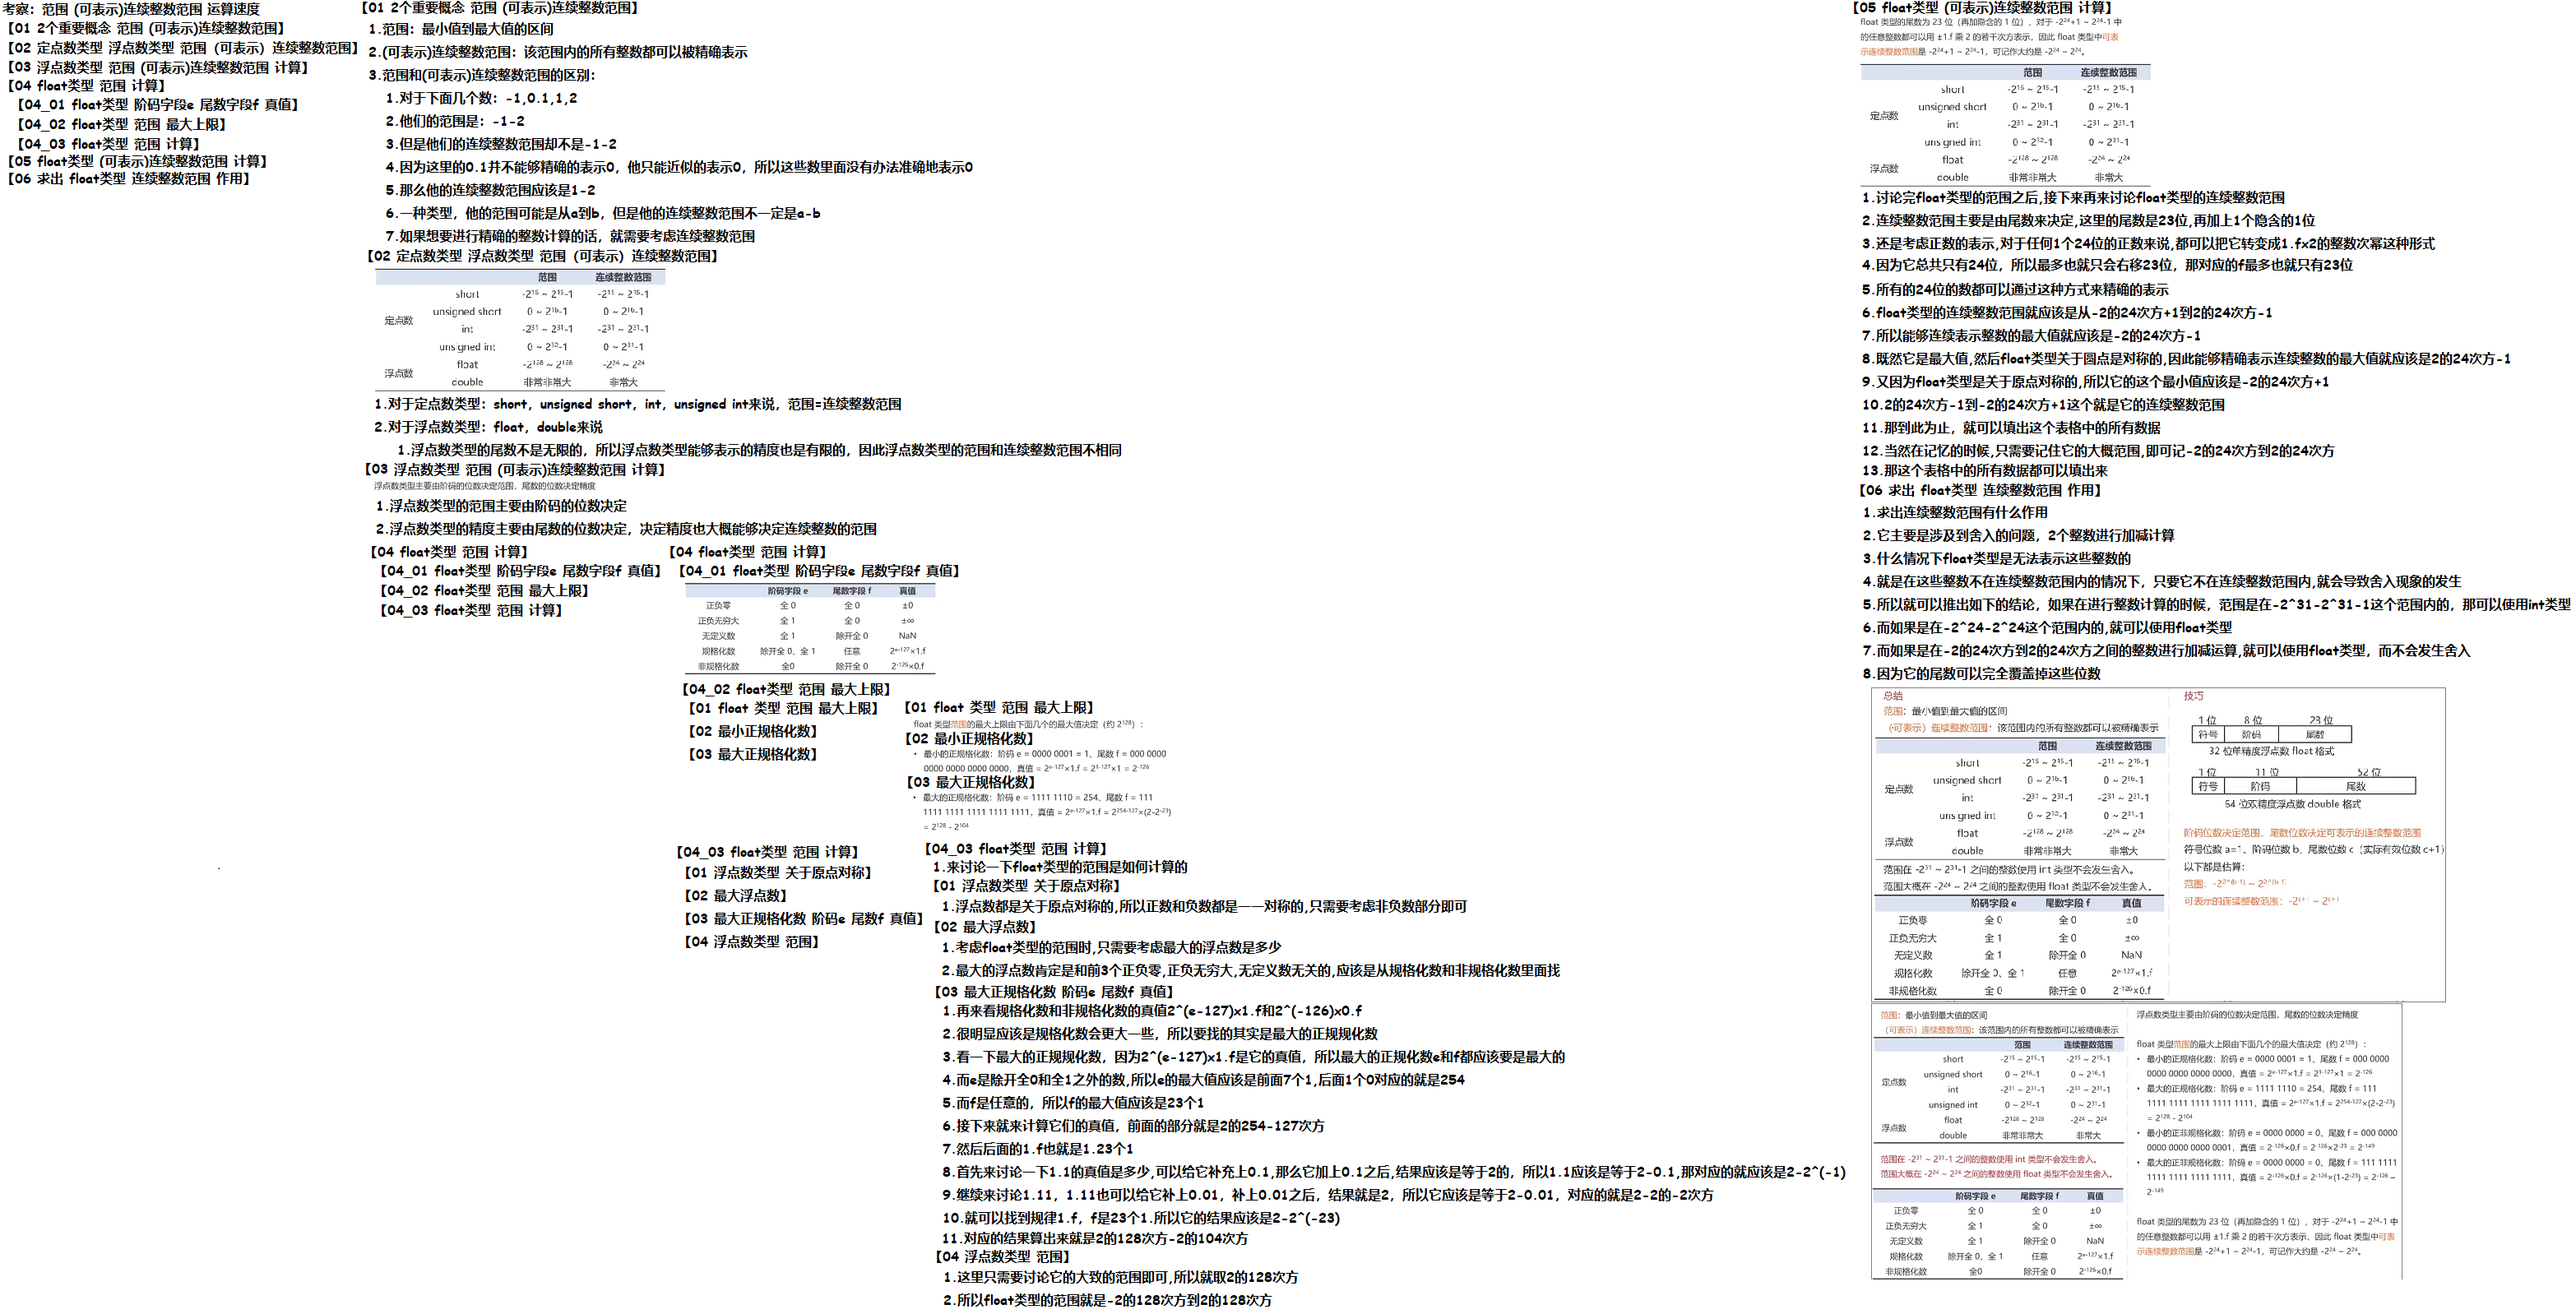
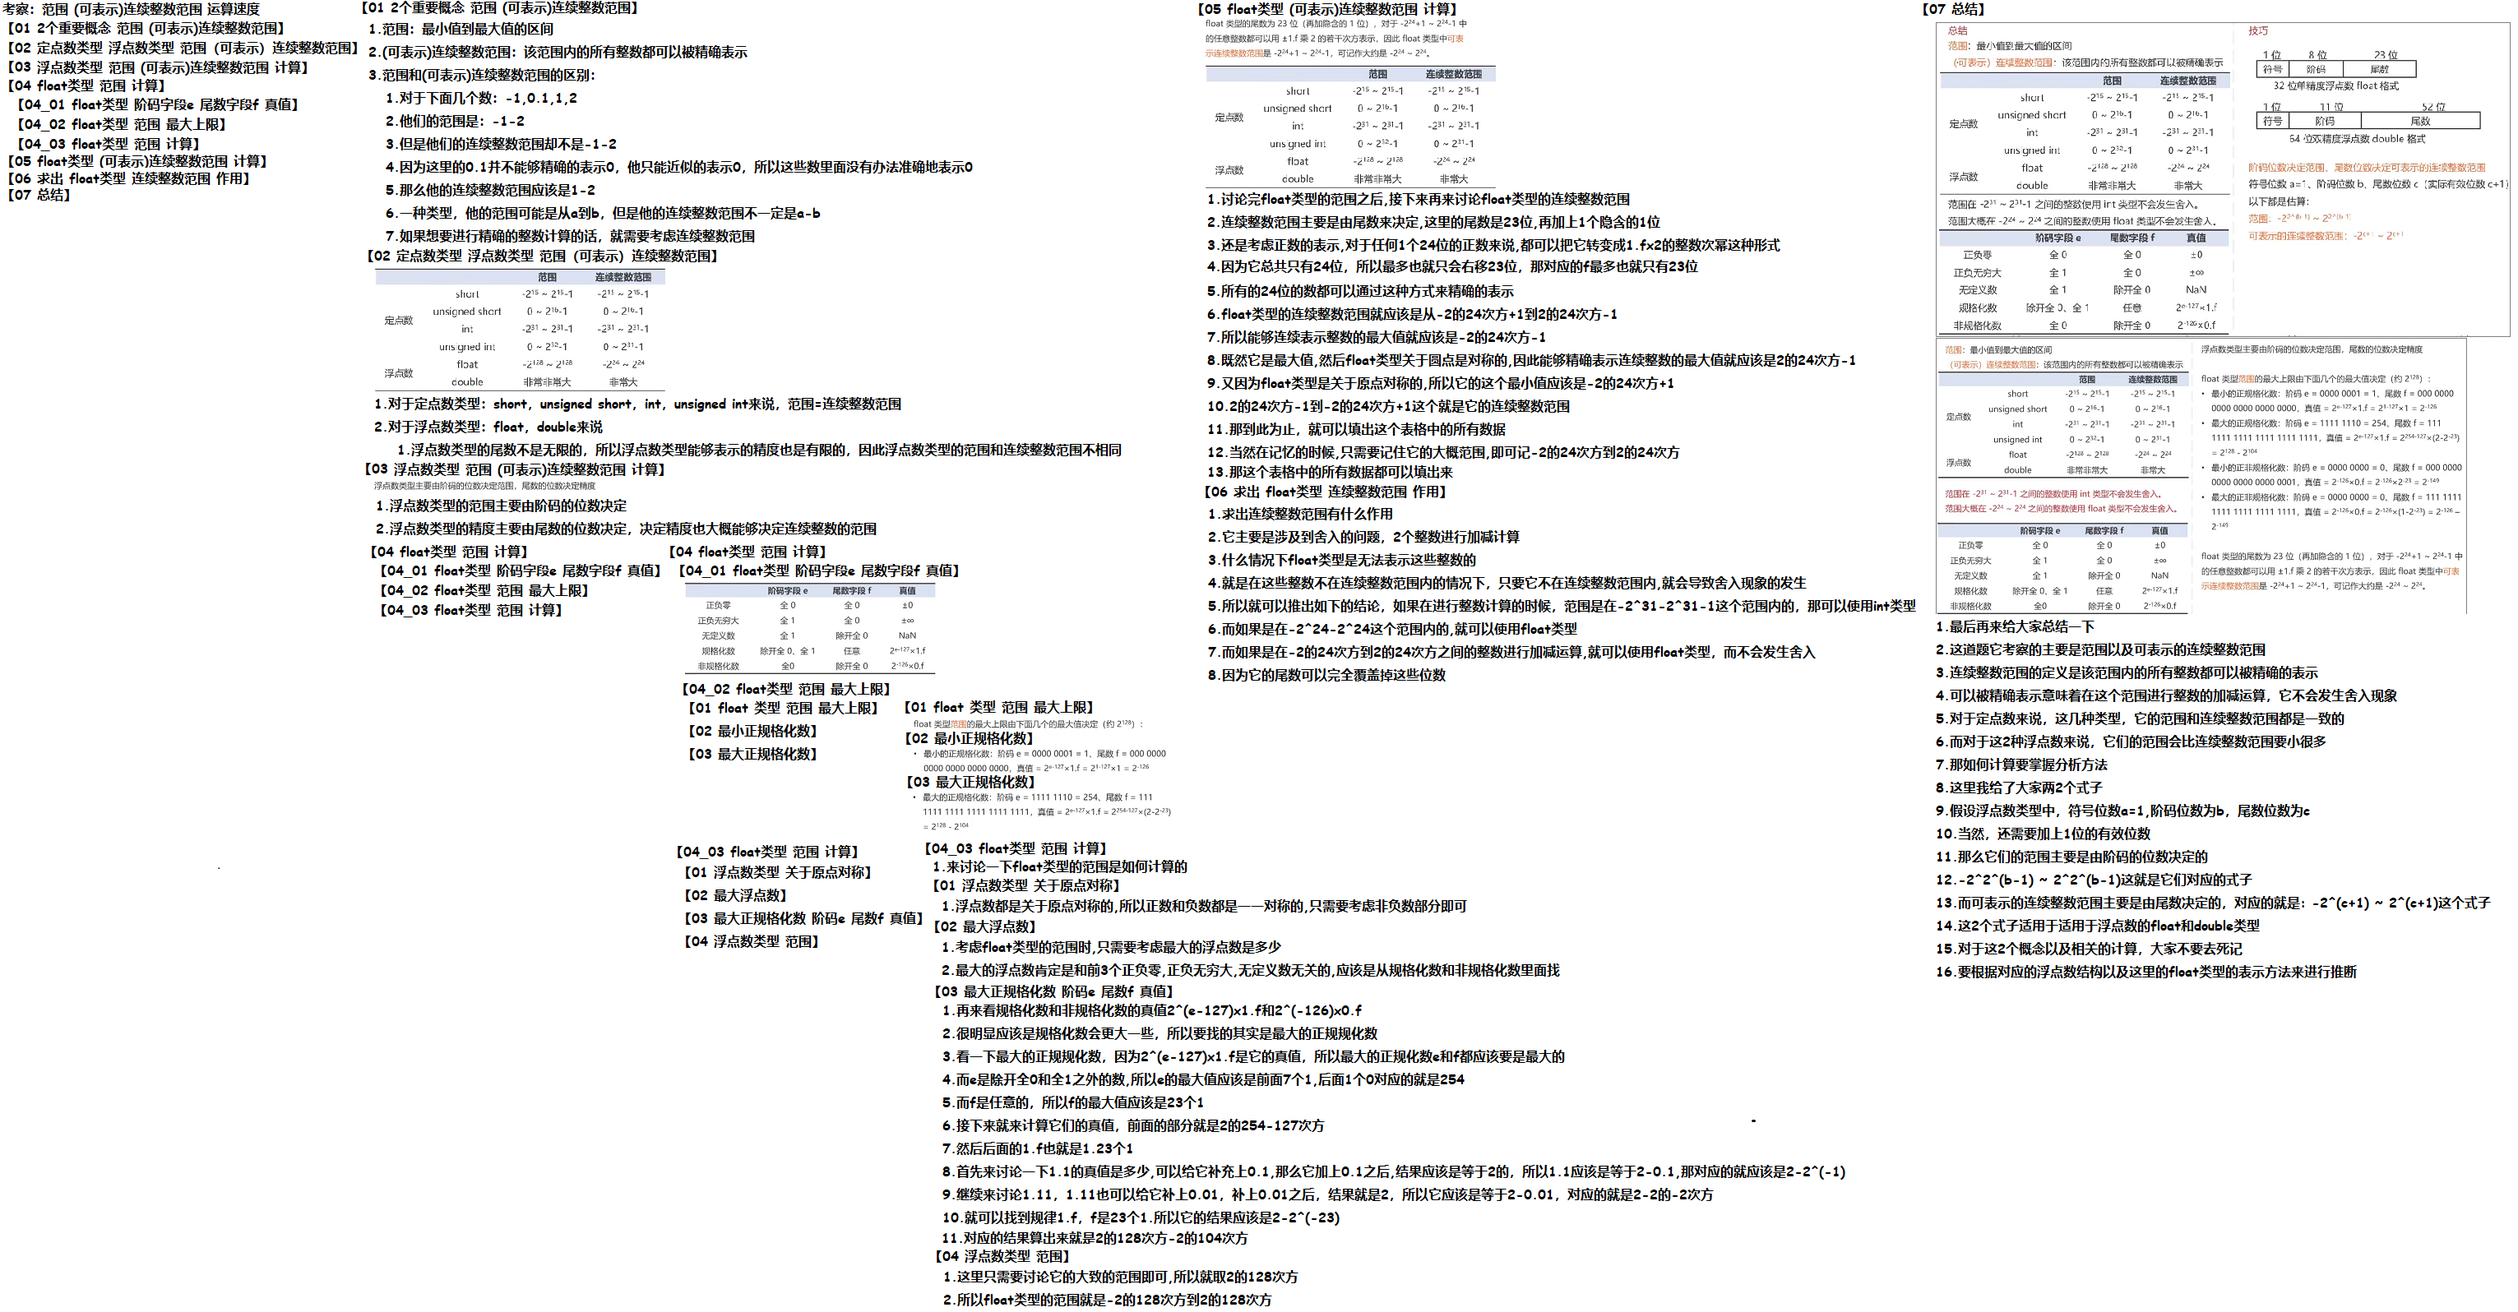
24408 T14 2‘ 250322 D276 S

Changed region(s): [[0.0, 0.0, 1.0, 1.0], [0.4654, 0.0, 0.5895, 0.0921]]

diff --git a/01 初试/01 408真题/01 24408/02 试卷分析.md b/01 初试/01 408真题/01 24408/02 试卷分析.md
@@ -147,12 +147,12 @@
 
 - [x] 03 T14 2'   [03 单选 14 2‘ 范围 (可表示)连续整数范围](01 刷题\01 单项选择题 28' = 22‘ + 6’\02 组成原理 6’ = 2‘ × 3\03 单选 14 2‘ 范围 (可表示)连续整数范围)  
 
-  * D：250319 D279 - 
+  * D4：250319 D279 - 250322 D276
   
   * 01 考察：范围  (可表示)连续整数范围
   
   * 02 知识点
-    - [ ] <img src="https://cvp.oss-cn-shanghai.aliyuncs.com/202503191437316.png" alt="image-20250319143653151" style="zoom:50%;" />
+    - [x] <img src="https://cvp.oss-cn-shanghai.aliyuncs.com/202503221052701.png" alt="image-20250322105211633" style="zoom:50%;" />
   
   
   * 03 刷题
@@ -171,7 +171,5 @@
 # 02 综合应用题 22'
 
 - [ ] 01 T41 13' [01 41 13‘ 拓扑排序](01 刷题\02 综合应用题\01 41 13‘ 拓扑排序) 
-  - [ ] 
-    - [ ] 
 - [x] 07 T47 9' [07 47 9’ BGP的路由选择协议](01 刷题\02 综合应用题\07 47 9’ BGP的路由选择协议) 
 

diff --git a/01 初试/01 408真题/01 24408/01 刷题/01 单项选择题 28' = 22‘ + 6’/02 组成原理 6’ = 2‘ × 3/03 单选 14 2‘ 范围 (可表示)连续整数范围 运算速度/01 250320 D278 T/02 Doc.md b/01 初试/01 408真题/01 24408/01 刷题/01 单项选择题 28' = 22‘ + 6’/02 组成原理 6’ = 2‘ × 3/03 单选 14 2‘ 范围 (可表示)连续整数范围 运算速度/01 250320 D278 T/02 Doc.md
@@ -1,6 +1,6 @@
 # 01 知识点
 
-<img src="https://cvp.oss-cn-shanghai.aliyuncs.com/202503200955704.png" alt="image-20250320095540230" style="zoom:50%;" />
+<img src="https://cvp.oss-cn-shanghai.aliyuncs.com/202503221051165.png" alt="image-20250322105144893" style="zoom:50%;" />
 
 
 

diff --git a/01 初试/01 408真题/01 24408/03 复习进度.md b/01 初试/01 408真题/01 24408/03 复习进度.md
@@ -1,0 +1,4 @@
+# 24408真题 D4：250319 D279 -
+
+- [ ] 01 T14 2'：D4：250319 D279 - 250322 D276
+- [ ] 02 复习T1-T14 28'：D
